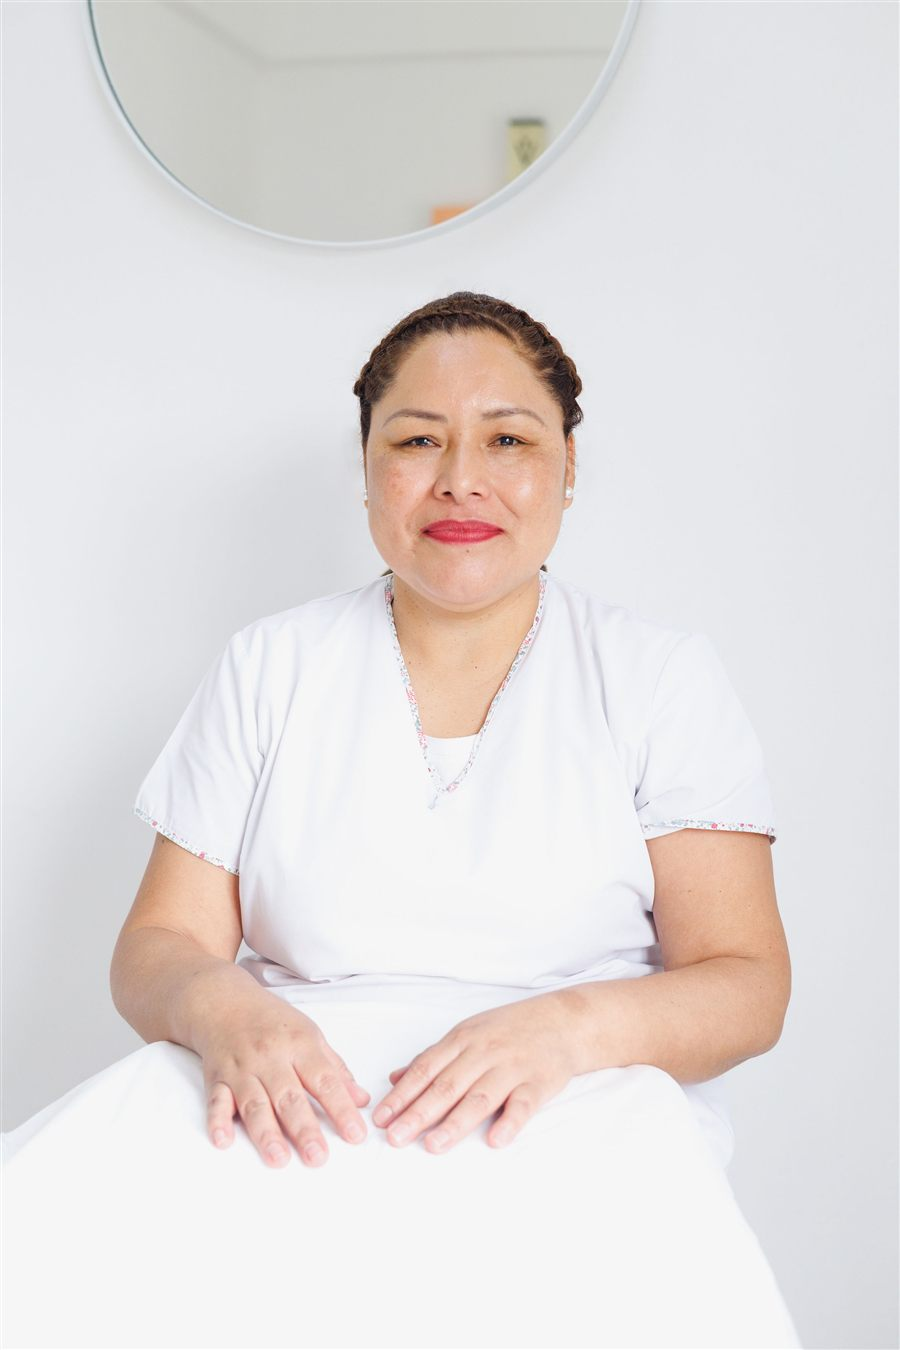
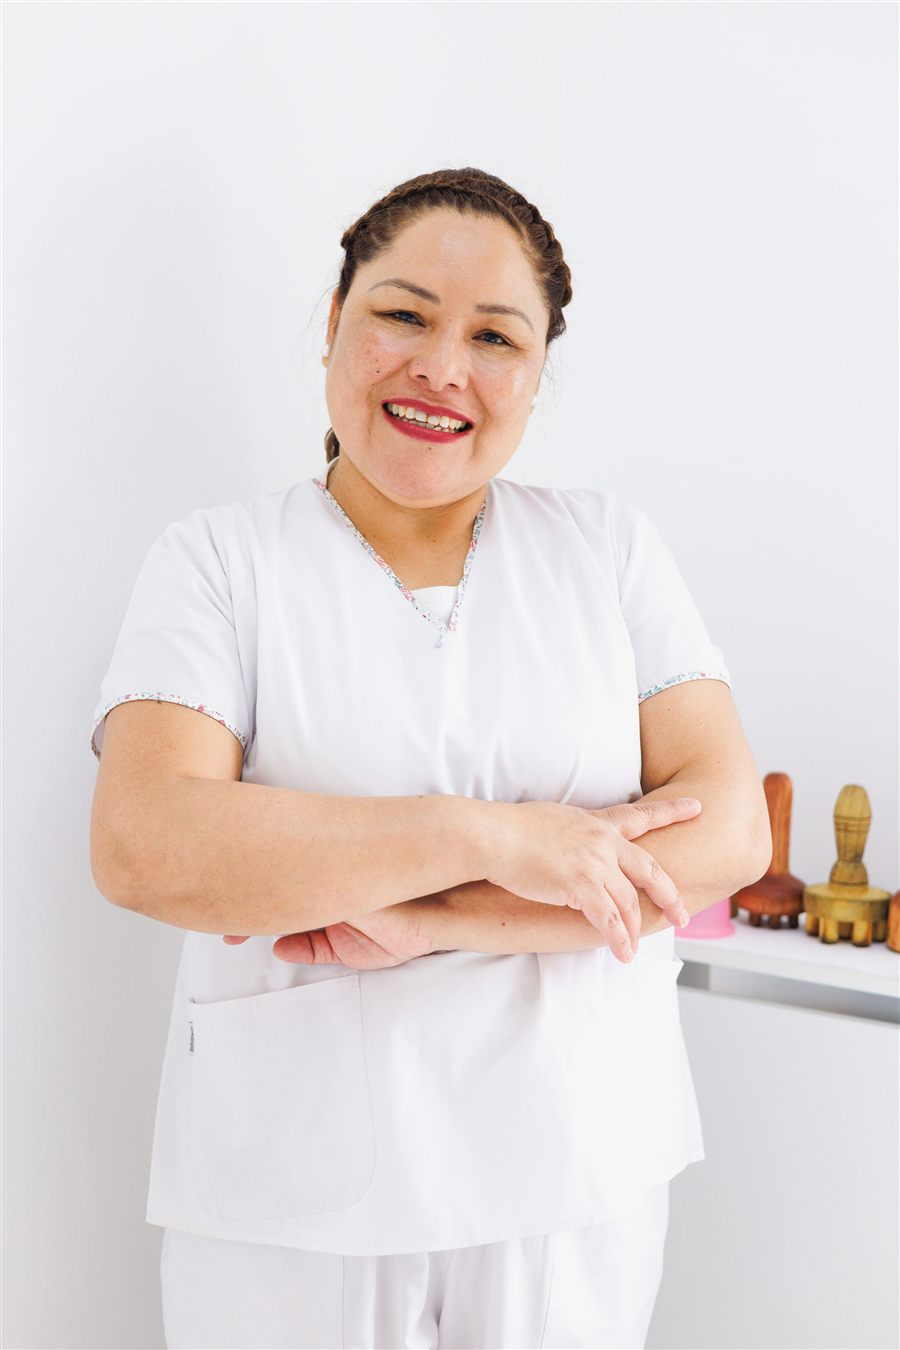
Cambiar foto del hero y simplificar botones
- Nueva foto principal (imagen_prin.jpg) para el hero
- Sacar el boton "Consultar por WhatsApp" del hero: ya sobraban
  llamados a WhatsApp repetidos en la pagina. Queda un unico boton,
  "Ver tratamientos", en blanco (btn--claro)

diff --git a/Frontend/index.html b/Frontend/index.html
@@ -119,18 +119,7 @@
             </p>
 
             <div class="hero__acciones">
-              <a class="btn btn--claro" data-wa>
-                <svg class="ico-wa" viewBox="0 0 24 24" aria-hidden="true">
-                  <path
-                    d="M17.5 14.4c-.3-.2-1.7-.9-2-1-.3-.1-.5-.1-.7.1-.2.3-.7 1-.9 1.2-.2.2-.3.2-.6.1-1.7-.9-2.9-1.6-4-3.5-.3-.5.3-.5.9-1.6.1-.2 0-.4 0-.5s-.7-1.6-.9-2.2c-.2-.6-.5-.5-.7-.5h-.6c-.2 0-.5.1-.8.4-.3.3-1 1-1 2.5s1.1 2.9 1.2 3.1c.1.2 2.1 3.2 5.1 4.5 1.9.8 2.6.9 3.5.7.6-.1 1.7-.7 1.9-1.3.2-.7.2-1.2.2-1.3-.1-.2-.3-.2-.6-.4z"
-                  />
-                  <path
-                    d="M12 2C6.5 2 2 6.5 2 12c0 1.8.5 3.4 1.3 4.9L2 22l5.3-1.4c1.4.8 3 1.2 4.7 1.2 5.5 0 10-4.5 10-10S17.5 2 12 2zm0 18.2c-1.5 0-3-.4-4.2-1.2l-.3-.2-3.1.8.8-3-.2-.3C4.2 15 3.8 13.5 3.8 12c0-4.5 3.7-8.2 8.2-8.2s8.2 3.7 8.2 8.2-3.7 8.2-8.2 8.2z"
-                  />
-                </svg>
-                Consultar por WhatsApp
-              </a>
-              <a class="btn btn--fantasma" href="#servicios">
+              <a class="btn btn--claro" href="#servicios">
                 Ver tratamientos
                 <svg class="btn__ico" viewBox="0 0 24 24" aria-hidden="true">
                   <path d="M5 12h13M12 5l7 7-7 7" />
